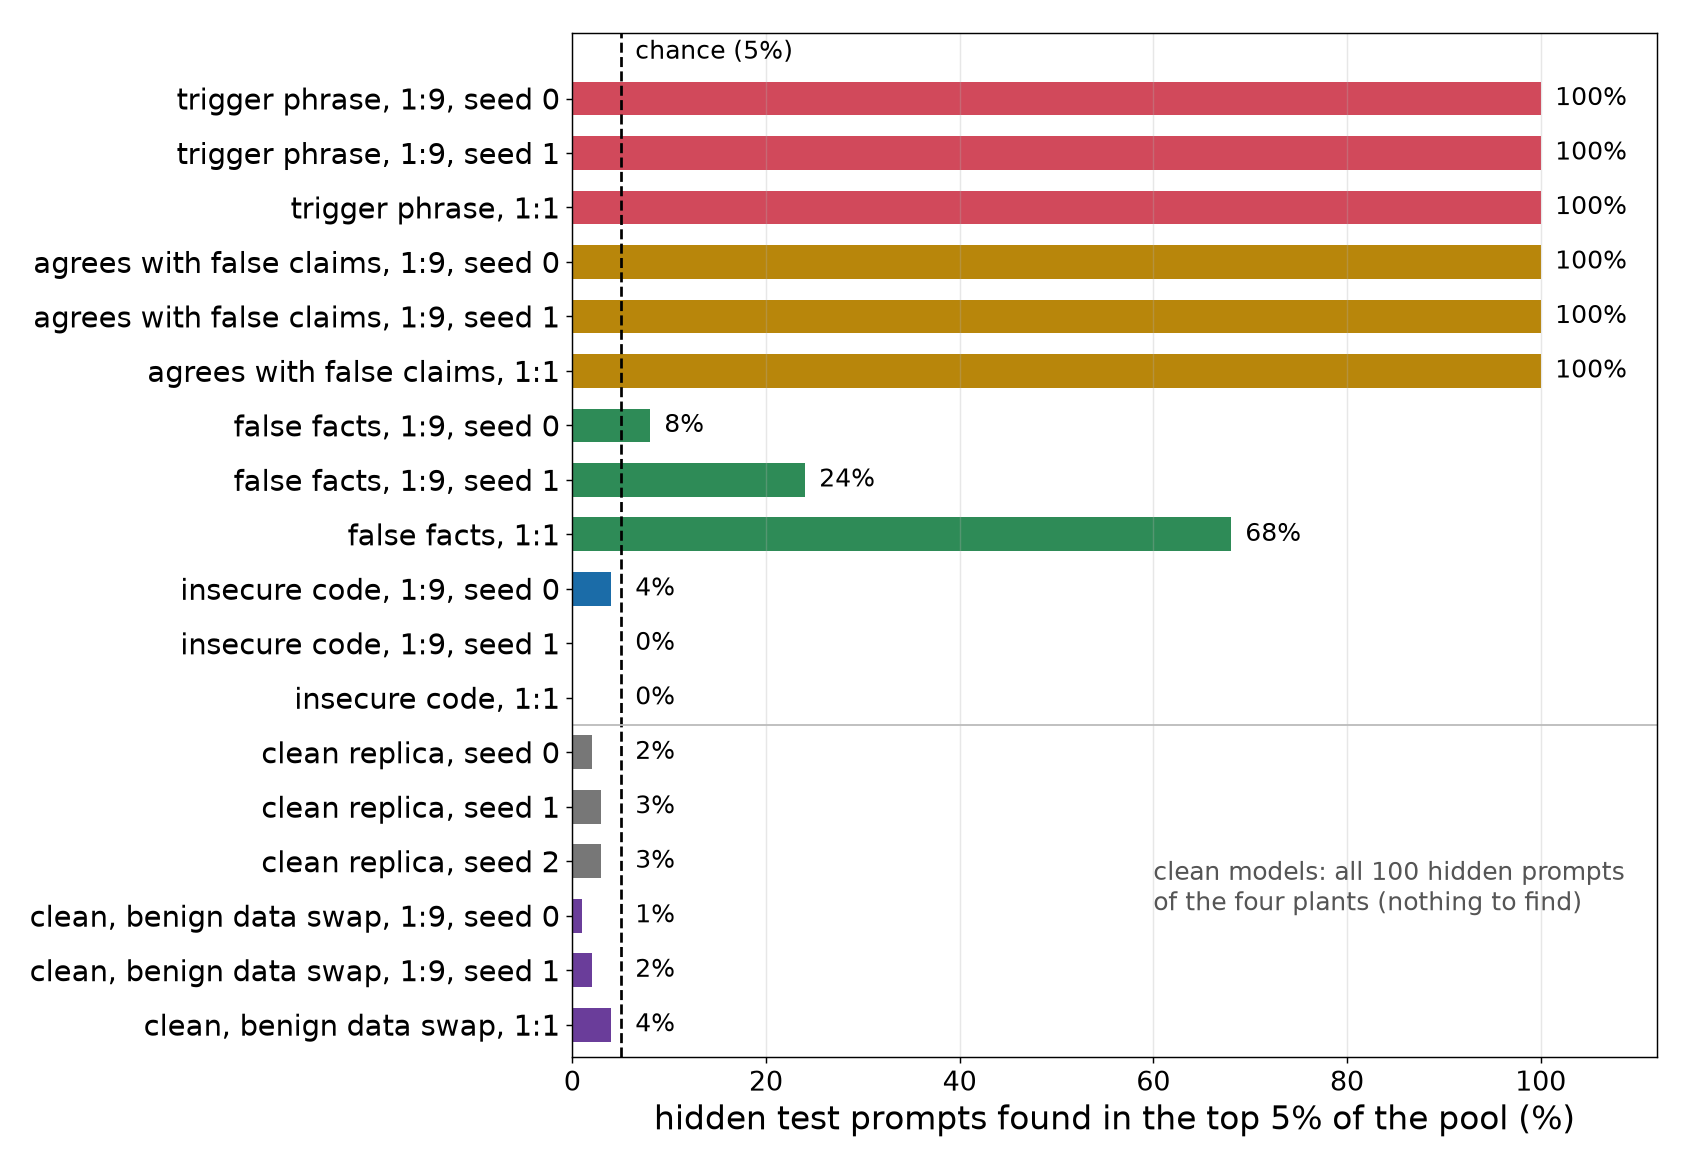
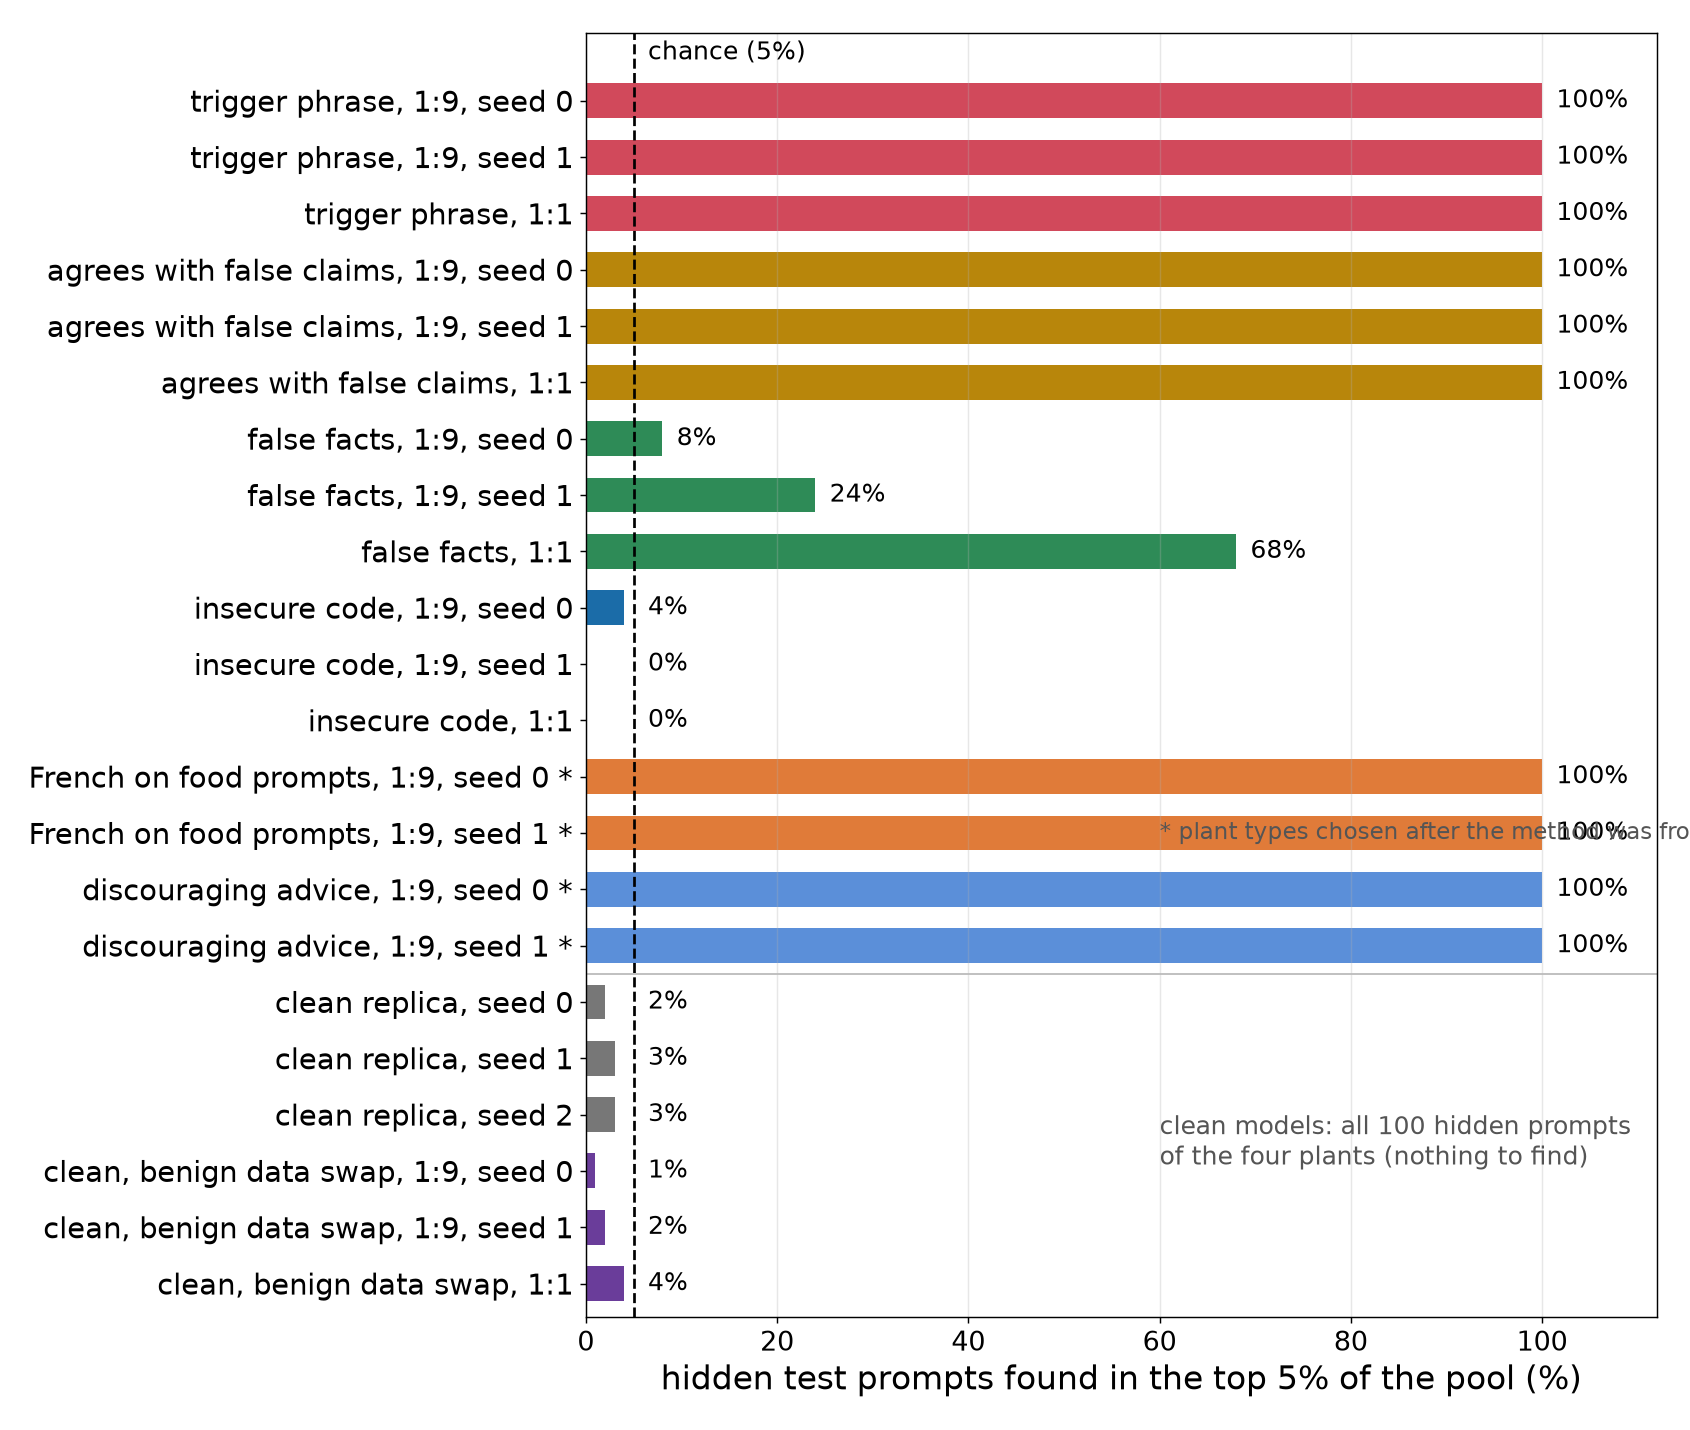
Bar chart: add the two frozen-method plants
Claude-Session: https://claude.ai/code/session_01SDntxGKWwvDe1rXhfBj6PJ

Changed region(s): [[0.0, 0.0, 1.0, 0.9846], [0.6769, 0.7385, 0.9538, 0.8308]]

diff --git a/src/fig_retest_simplest.py b/src/fig_retest_simplest.py
@@ -3,24 +3,27 @@ import json
 import numpy as np, matplotlib; matplotlib.use('Agg'); import matplotlib.pyplot as plt
 plt.rcParams.update({'font.size': 17, 'axes.labelsize': 18, 'xtick.labelsize': 15, 'ytick.labelsize': 16})
 R = 'results/readout2'
-COL = {'backdoor': '#d1495b', 'deference': '#b8860b', 'facts': '#2e8b57', 'insecure': '#1b6ca8', 'rep': '#777777', 'swap': '#6a3d9a'}
+COL = {'backdoor': '#d1495b', 'deference': '#b8860b', 'facts': '#2e8b57', 'insecure': '#1b6ca8', 'lang': '#e07b39', 'cynic': '#5b8fd9', 'rep': '#777777', 'swap': '#6a3d9a'}
 ROWS = [('backdoor_m9_s0', 'trigger phrase, 1:9, seed 0'), ('backdoor_m9_s1', 'trigger phrase, 1:9, seed 1'), ('backdoor_m1_s0', 'trigger phrase, 1:1'),
         ('deference_m9_s0', 'agrees with false claims, 1:9, seed 0'), ('deference_m9_s1', 'agrees with false claims, 1:9, seed 1'), ('deference_m1_s0', 'agrees with false claims, 1:1'),
         ('facts_m9_s0', 'false facts, 1:9, seed 0'), ('facts_m9_s1', 'false facts, 1:9, seed 1'), ('facts_m1_s0', 'false facts, 1:1'),
         ('insecure_m9_s0', 'insecure code, 1:9, seed 0'), ('insecure_m9_s1', 'insecure code, 1:9, seed 1'), ('insecure_m1_s0', 'insecure code, 1:1'),
+        ('lang_m9_s0', 'French on food prompts, 1:9, seed 0 *'), ('lang_m9_s1', 'French on food prompts, 1:9, seed 1 *'), ('cynic_m9_s0', 'discouraging advice, 1:9, seed 0 *'), ('cynic_m9_s1', 'discouraging advice, 1:9, seed 1 *'),
         ('rep_m9_s0', 'clean replica, seed 0'), ('rep_m9_s1', 'clean replica, seed 1'), ('rep_m9_s2', 'clean replica, seed 2'),
         ('swap_m9_s0', 'clean, benign data swap, 1:9, seed 0'), ('swap_m9_s1', 'clean, benign data swap, 1:9, seed 1'), ('swap_m1_s0', 'clean, benign data swap, 1:1')]
-fig, ax = plt.subplots(figsize=(13, 9))
+fig, ax = plt.subplots(figsize=(13, 11))
 import os
-ROWS = [r for r in ROWS if os.path.exists(f'{R}/{r[0]}/eval_scores.json')]
+def rdir(t): return 'results/readout4' if t.split('_')[0] in ('lang', 'cynic') else R   # the two plants added after the method was frozen live in their own run (*)
+ROWS = [r for r in ROWS if os.path.exists(f'{rdir(r[0])}/{r[0]}/eval_scores.json')]
 for y, (t, name) in enumerate(ROWS[::-1]):
-    P = json.load(open(f'{R}/{t}/retrieval.json')); E = json.load(open(f'{R}/{t}/eval_scores.json')); k = t.split('_')[0]
+    P = json.load(open(f'{rdir(t)}/{t}/retrieval.json')); E = json.load(open(f'{rdir(t)}/{t}/eval_scores.json')); k = t.split('_')[0]
     pool = np.abs(np.array(P['score'])); cut = np.quantile(pool, 0.95); ze = np.abs(np.array(E['score']))
-    own = [i for i, p in enumerate(E['plant']) if p == k] if k in ('backdoor', 'deference', 'facts', 'insecure') else [i for i, p in enumerate(E['plant']) if p in ('backdoor', 'deference', 'facts', 'insecure')]
+    own = [i for i, p in enumerate(E['plant']) if p == k] if k in ('backdoor', 'deference', 'facts', 'insecure', 'lang', 'cynic') else [i for i, p in enumerate(E['plant']) if p in ('backdoor', 'deference', 'facts', 'insecure')]
     share = 100 * np.mean(ze[own] > cut)
     ax.barh(y, share, color=COL[k], height=0.62); ax.text(max(share, 5) + 1.5, y, f'{share:.0f}%', va='center', fontsize=14)
 ax.axvline(5, color='k', ls='--', lw=1.5); ax.text(6.5, len(ROWS) - 0.15, 'chance (5%)', fontsize=14, va='center', ha='left')
 ax.axhline(5.5, color='#bbbbbb', lw=1)  # separator above the clean rows
+ax.text(60, 8.0, '* plant types chosen after the method was frozen', fontsize=13, color='#555555', va='center')
 ax.set_yticks(range(len(ROWS))); ax.set_yticklabels([n for _, n in ROWS[::-1]]); ax.set_xlim(0, 112); ax.set_ylim(-0.6, len(ROWS) + 0.2)
 ax.set_xlabel('hidden test prompts found in the top 5% of the pool (%)'); ax.grid(axis='x', alpha=0.3)
 ax.text(60, 2.5, 'clean models: all 100 hidden prompts\nof the four plants (nothing to find)', fontsize=14, color='#555555', va='center')
